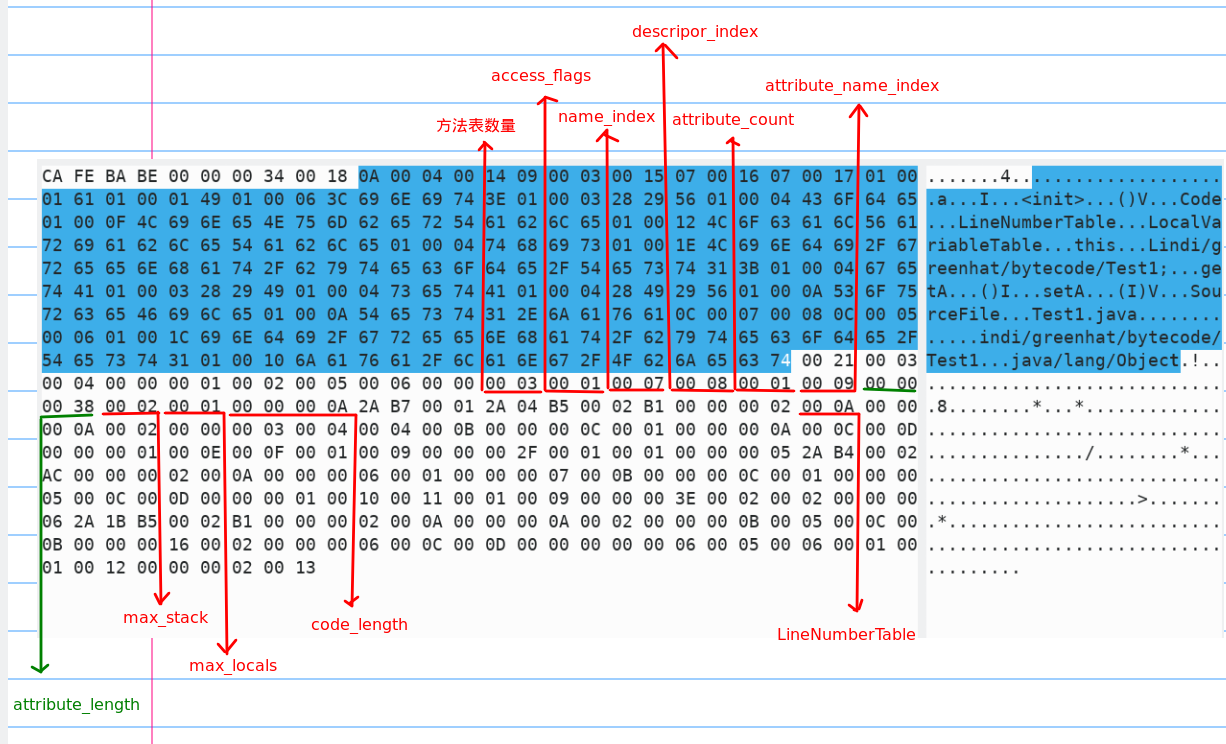
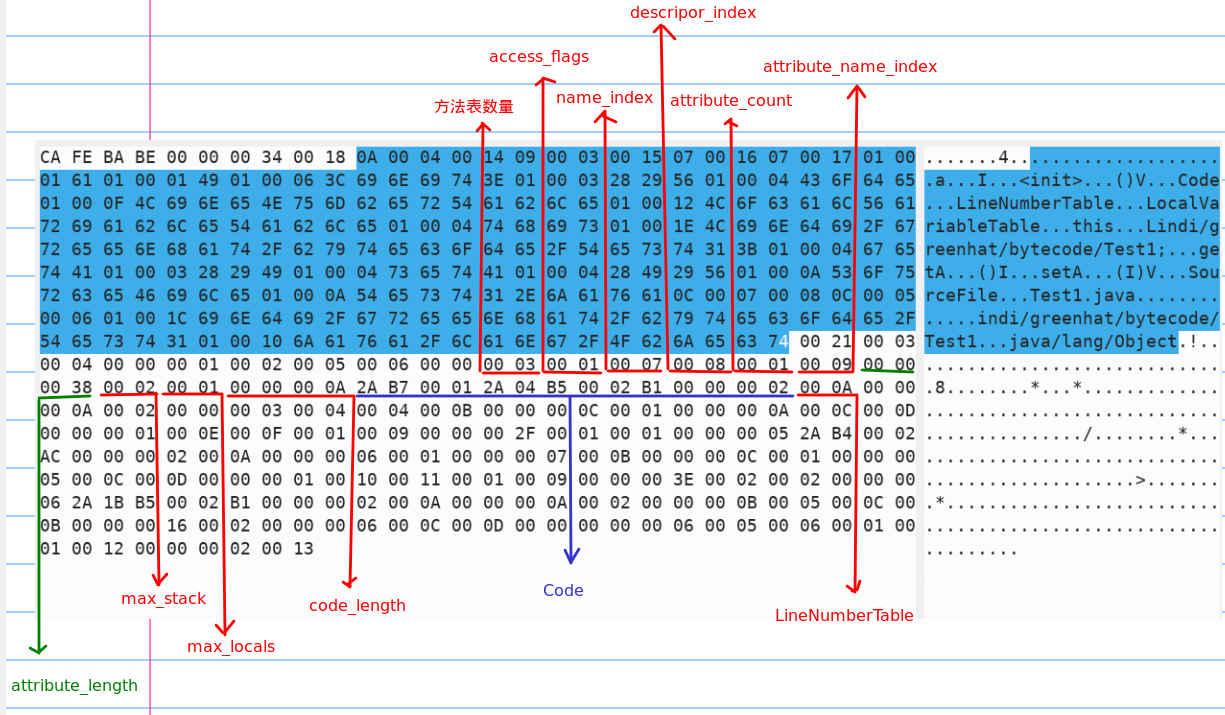
up class

diff --git a/Java虚拟机笔记-字节码格式.md b/Java虚拟机笔记-字节码格式.md
@@ -179,6 +179,8 @@ SourceFile: "Test1.java"
 
 ![](Java虚拟机笔记-字节码格式/9.png)
 
+![](Java虚拟机笔记-字节码格式/21.png)
+
 ## 字节码中的数据类型
 
 Class字节码中有两种数据类型 
@@ -391,7 +393,62 @@ attribute_info{
 
 - `exception_table`用来存放的是异常处理的信息，每个`exception_table`表项由`start_pc`，`end_pc`，`handler_pc`以及`catch_type`组成
 
-  
+
+---
+
+我们可以用[jclasslib](https://github.com/ingokegel/jclasslib)这个软件来帮助我们查看字节码
+
+![](Java虚拟机笔记-字节码格式/10.png)
+
+可以看到Code里面其实是一系列的助记符，其对应的十六进制为
+
+![](Java虚拟机笔记-字节码格式/11.png)
+
+也就是说`0x2A`对应的就是`aload_0`
+
+`0xB7`对应的就是` invokespecial`，后面的`00 01`代表` java/lang/Object."<init>":()V`，也就是`invokespecial`后面所要接受的参数值
+
+对应的助记符解释（来自《Java虚拟机规范 JavaSE8》）
+
+![](Java虚拟机笔记-字节码格式/12.png)
+
+![](Java虚拟机笔记-字节码格式/13.png)
+
+![](Java虚拟机笔记-字节码格式/14.png)
+
+![](Java虚拟机笔记-字节码格式/15.png)
+
+![](Java虚拟机笔记-字节码格式/16.png)
+
+#### LineNumberTable属性
+
+`LineNumberTable`属性用于描述Java源码行号与字节码行号（ 字节码的偏移量） 之间的对应关系。 它并不是运行时必需的属性， 但默认会生成到Class文件之中
+
+![](Java虚拟机笔记-字节码格式/17.png)
+
+`line_number_table`是一个数量为`line_number_table_length`，类型为`line_number_info`的集
+合， `line_number_info`表包括了`start_pc`和`line_number`两个`u2`类型的数据项， 前者是字节码行
+号， 后者是Java源码行号。当程序运行抛出异常时，异常堆栈中显示出错的行号就是根据这个对应关系来显示的。
+
+![](Java虚拟机笔记-字节码格式/18.png)
+
+#### LocalVariableTable属性
+
+`LocalVariableTable`属性用于描述栈帧中局部变量表中的变量与Java源码中定义的变量之间的关系， 它也不是运行时必需的属性， 但默认会生成到Class文件之中
+
+![](Java虚拟机笔记-字节码格式/6.jpg)
+
+`local_variable_info`结构:
+
+![](Java虚拟机笔记-字节码格式/19.png)
+
+- `start_pc`和`length`属性分别代表了这个局部变量的生命周期开始地字节码偏移量及其作用范围覆盖的长度，两者结合起来就是这个局部变量在字节码之中的作用域范围。
+- `name_index`和`descriptor_index`都是指向常量池中`CONSTANT_Utf8_info`型常量的索引，分别代表了局部变量的名称以及这个局部变量的描述符。
+- `index`是这个局部变量在栈帧局部变量表中`Slot`的位置。当这个变量数据类型是 64位类型时（`double`和`long`），他占用的`Slot`为`index`和`index+1`两个
+
+![](Java虚拟机笔记-字节码格式/20.png)
+
+**可以看到默认构造函数有一个局部变量this，代表类自身**
 
 参考：
 
@@ -402,5 +459,7 @@ attribute_info{
 [类文件结构 | nekolr's blog](https://blog.nekolr.com/2018/04/18/%E7%B1%BB%E6%96%87%E4%BB%B6%E7%BB%93%E6%9E%84/)
 
 [认识 .class 文件的字节码结构 | 一些无处安放的代码和故事](https://lijiankun24.com/%E8%AE%A4%E8%AF%86-class-%E6%96%87%E4%BB%B6%E7%9A%84%E5%AD%97%E8%8A%82%E7%A0%81%E7%BB%93%E6%9E%84/)
+
+[Java Class文件结构解析-云栖社区-阿里云](https://yq.aliyun.com/articles/640924)
 
 《深入理解java虚拟机（第二版 周志明）》
